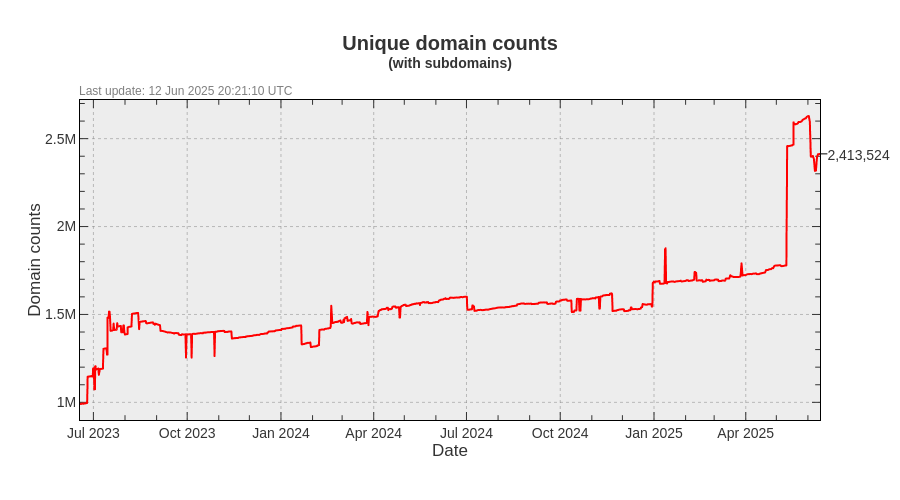
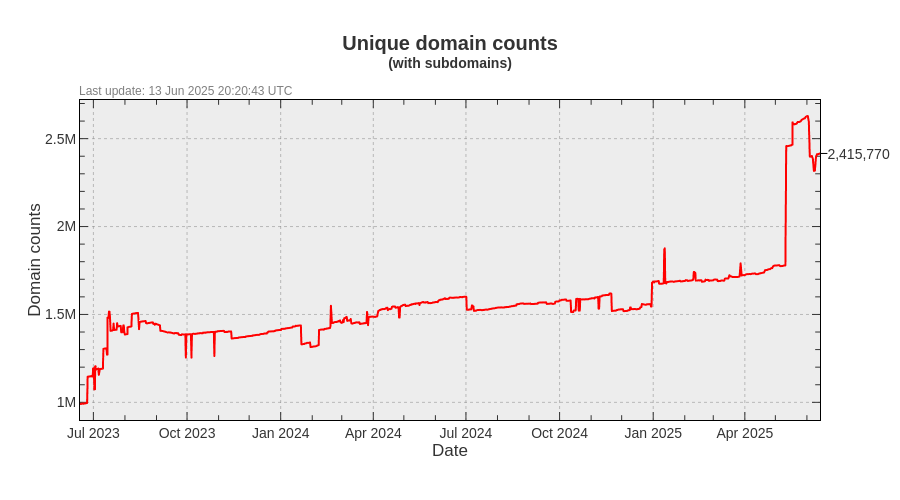
Update pages

diff --git a/README.md b/README.md
@@ -3,23 +3,23 @@ A blocklist file for blocking ads, trackers and malware domains.
 
[1 lines of base64/hex data omitted]
 
-- Unique domains: 2,413,524
-- Without subdomains: 1,706,645
-- Last update: 12 Jun 2025 20:21:10 UTC
-- Version: 2025.06.12.01
+- Unique domains: 2,415,770
+- Without subdomains: 1,708,234
+- Last update: 13 Jun 2025 20:20:43 UTC
+- Version: 2025.06.13.01
 
 
 ### Downloads:
 
 | Format             | Domain count      | Download Link |
 |:------------------ | -----------------:|:-------------:|
-| *Adblock Plus*     | 1,706,645 | [Download](https://dl.cenk.app/bad-hosts/bad-hosts-abp) |
-| *Wildcard domains* | 1,706,645 | [Download](https://dl.cenk.app/bad-hosts/bad-hosts-wildcard) |
-| *dnsmasq*          | 1,706,645 | [Download](https://dl.cenk.app/bad-hosts/bad-hosts-dnsmasq) |
-| *Unbound*          | 1,706,645 | [Download](https://dl.cenk.app/bad-hosts/bad-hosts-unbound) |
-| *hosts*            | 2,413,524 | [Download](https://dl.cenk.app/bad-hosts/hosts) |
-| *hosts (ipv6)*     | 2,413,524 | [Download](https://dl.cenk.app/bad-hosts/hosts-ipv6) |
-| *Plain domains*    | 2,413,524 | [Download](https://dl.cenk.app/bad-hosts/bad-hosts-domains) |
+| *Adblock Plus*     | 1,708,234 | [Download](https://dl.cenk.app/bad-hosts/bad-hosts-abp) |
+| *Wildcard domains* | 1,708,234 | [Download](https://dl.cenk.app/bad-hosts/bad-hosts-wildcard) |
+| *dnsmasq*          | 1,708,234 | [Download](https://dl.cenk.app/bad-hosts/bad-hosts-dnsmasq) |
+| *Unbound*          | 1,708,234 | [Download](https://dl.cenk.app/bad-hosts/bad-hosts-unbound) |
+| *hosts*            | 2,415,770 | [Download](https://dl.cenk.app/bad-hosts/hosts) |
+| *hosts (ipv6)*     | 2,415,770 | [Download](https://dl.cenk.app/bad-hosts/hosts-ipv6) |
+| *Plain domains*    | 2,415,770 | [Download](https://dl.cenk.app/bad-hosts/bad-hosts-domains) |
 
 ### Domain count history
 #### With subdomains
